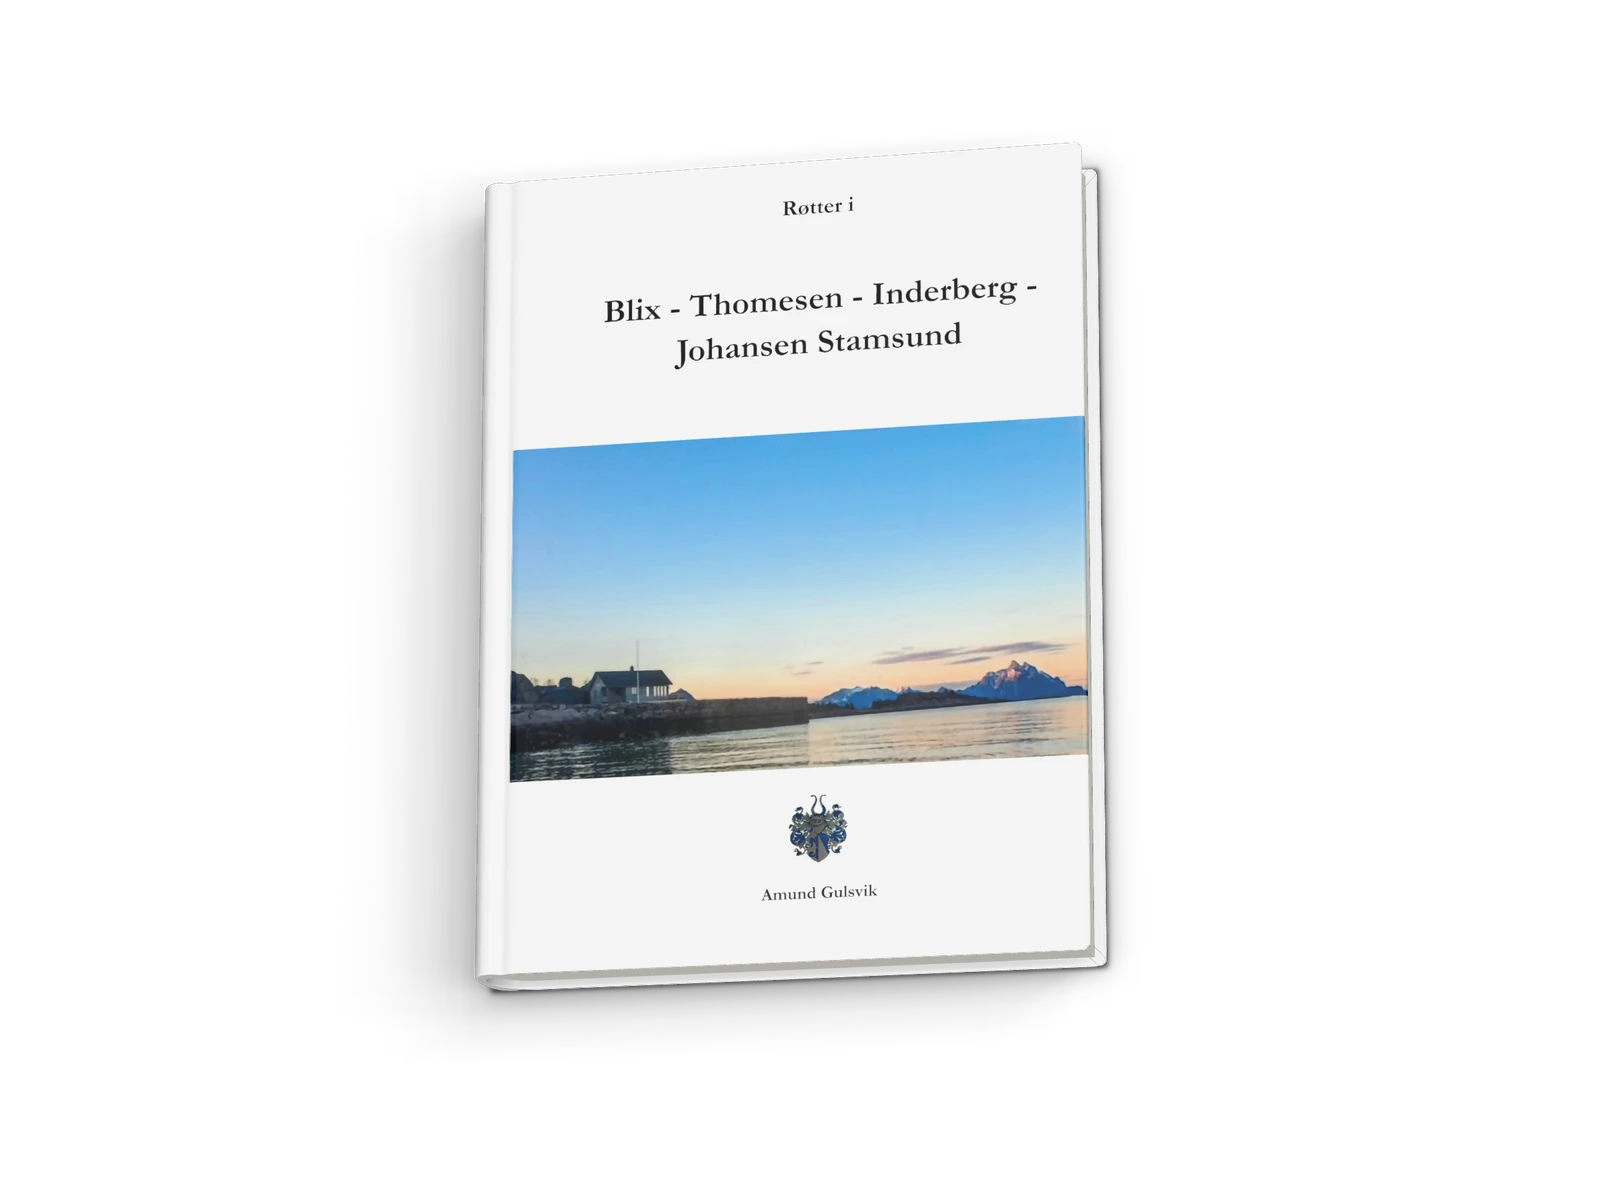
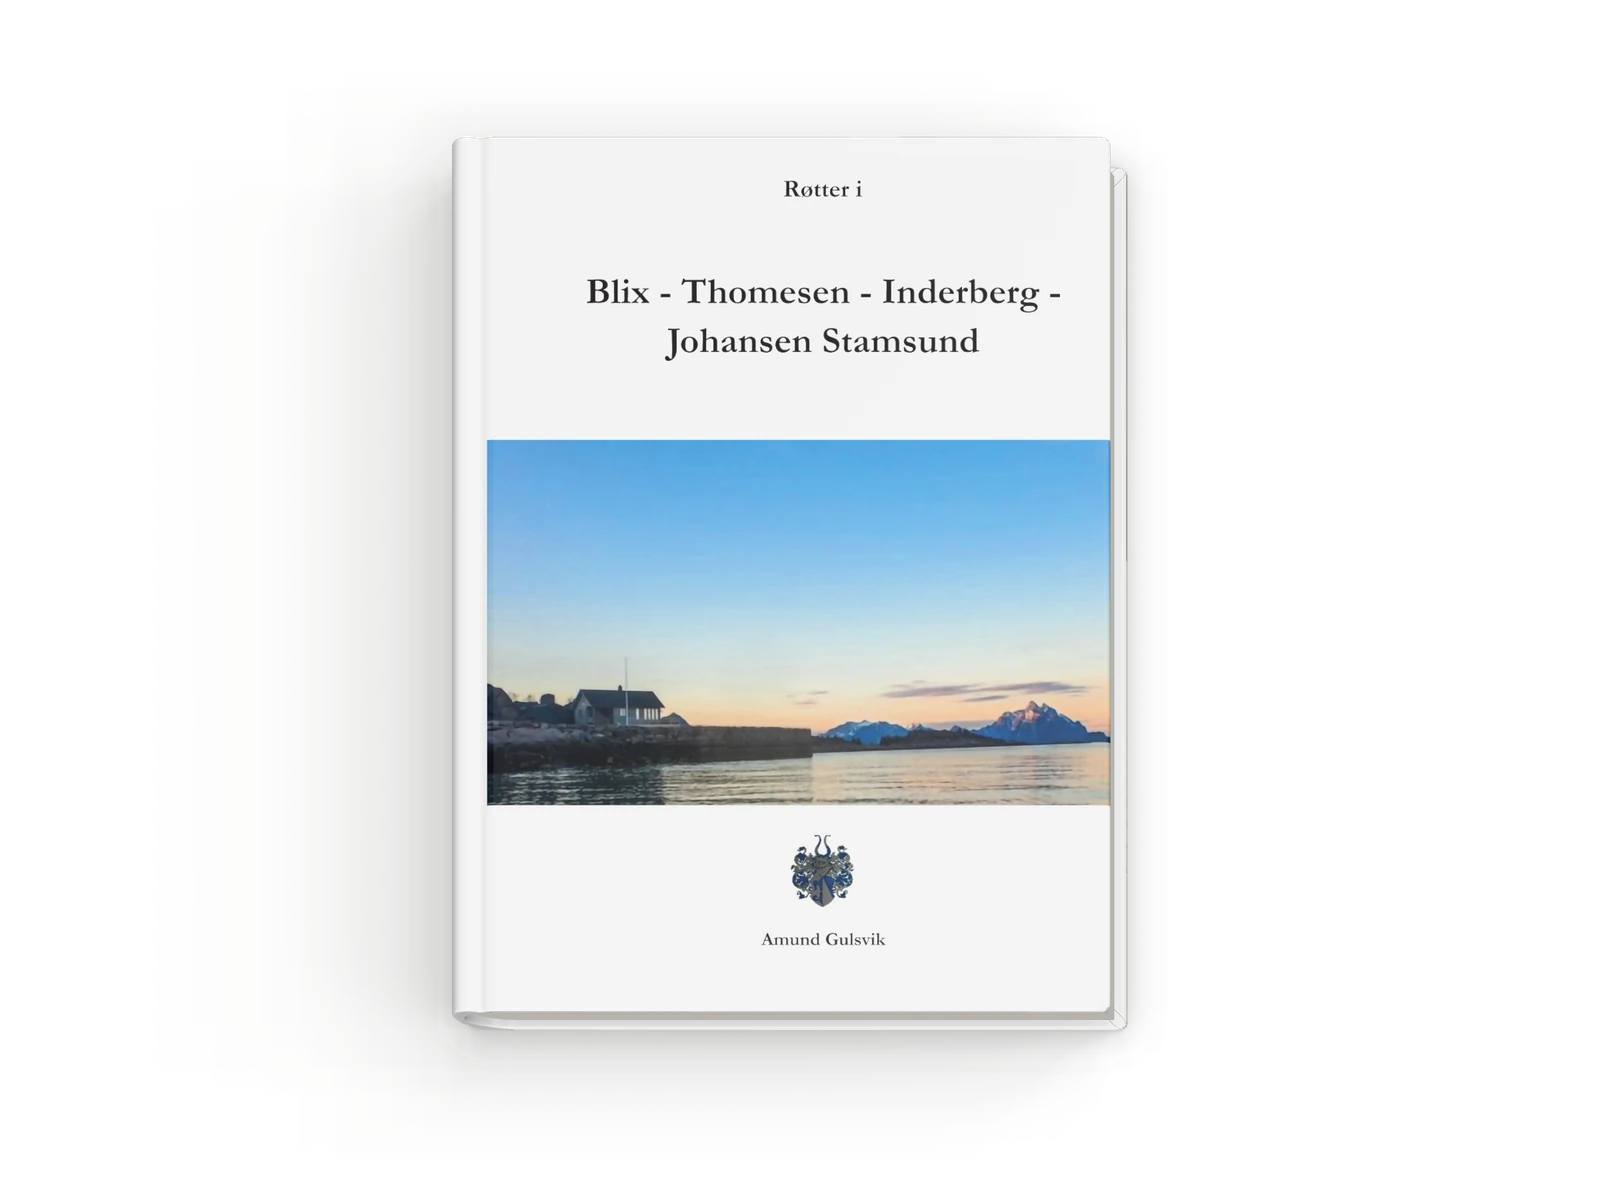
Book render: straight view, dark-grey soft shadows, no edge line
Camera looks straight down with a shifted frame, so the book is a true rectangle.
Shadows are dark grey and fade smoothly into the ground; the thin contact line is gone.

Changed region(s): [[0.25, 0.1233, 0.7188, 0.8942], [0.4688, 0.1542, 0.5312, 0.185]]

diff --git a/tools/book-render/render.html b/tools/book-render/render.html
@@ -180,7 +180,7 @@ book.position.y = ZOB + 0.005;   // resting on the table
 scene.add(book);
 
 // floor: shadow only, so the PNG sits on any pale ground
-const floor = new THREE.Mesh(new THREE.PlaneGeometry(4000, 4000), new THREE.ShadowMaterial({ opacity: num('so', 0.42) }));
+const floor = new THREE.Mesh(new THREE.PlaneGeometry(4000, 4000), new THREE.ShadowMaterial({ color: new THREE.Color(P.get('sc') || '#4a4a46'), opacity: num('so', 0.42) }));
 floor.rotation.x = -Math.PI / 2; floor.receiveShadow = true; scene.add(floor);
 
 // Soft light like a large softbox on the right plus open sky: each pass moves the light to another point
@@ -196,14 +196,14 @@ scene.add(new THREE.HemisphereLight(0xffffff, 0xe9e9e6, num('bounce', 0.35)));
 {
   const PX = 4, W0 = 300, H0 = 360, cc = document.createElement('canvas'); cc.width = W0 * PX; cc.height = H0 * PX;
   const cg = cc.getContext('2d'); const x0 = -120.7, x1 = XF, z0 = -H / 2, z1 = H / 2, ox = -7.4;
-  const rect = (inset, blur, a) => { cg.filter = `blur(${blur * PX}px)`; cg.fillStyle = `rgba(0,0,0,${a})`;
+  const rect = (inset, blur, a) => { cg.filter = `blur(${blur * PX}px)`; cg.fillStyle = `rgba(74,74,70,${a})`;
     cg.fillRect((x0 + inset - ox + W0 / 2) * PX, (z0 + inset + H0 / 2) * PX, (x1 - x0 - 2 * inset) * PX, (z1 - z0 - 2 * inset) * PX); };
-  rect(-0.3, 1.0, num('c1', 0.7)); rect(0, 4.5, num('c2', 0.28));
+  rect(0, 6, num('c2', 0.3));   // soft only: no dark line along the edge
   const m = new THREE.Mesh(new THREE.PlaneGeometry(W0, H0), new THREE.MeshBasicMaterial({ map: new THREE.CanvasTexture(cc), transparent: true, depthWrite: false, toneMapped: false }));
   m.rotation.x = -Math.PI / 2; m.position.set(ox, 0.02, 0); scene.add(m);
 }
 const SOFTBOX = new THREE.Vector3(num('kx', 600), num('ky', 900), num('kz', -60)).normalize();
-const PASSES = num('passes', 128), SKY = num('sky', 0.35), SPREAD = num('spread', 0.55);
+const PASSES = num('passes', 128), SKY = num('sky', 0.35), SPREAD = num('spread', 0.85);
 function lightDir(i) {
   const a = (i + 0.5) / PASSES, t = i * 2.39996;                    // golden-angle spiral, even coverage
   if (i % Math.round(1 / SKY) === 0) {                               // sky: anywhere above, from 35 deg up
@@ -216,7 +216,14 @@ function lightDir(i) {
 }
 
 const camera = new THREE.PerspectiveCamera(num('fov', 11), OUT_W / OUT_H, 10, 5000);
-camera.up.set(0, 0, -1); camera.position.set(CAM_X, CAM_Y, CAM_Z); camera.lookAt(-6, 0, 8);
+// looking straight down, so the book stays a true rectangle; the frame is shifted (like a shift lens)
+// to bring the book to the centre, and the offset position still shows the fore edge and the tail
+camera.up.set(0, 0, -1); camera.position.set(CAM_X, CAM_Y, CAM_Z); camera.lookAt(CAM_X, 0, CAM_Z);
+{
+  const tx = -7, tz = 0, th = Math.tan(THREE.MathUtils.degToRad(camera.fov / 2)), D = CAM_Y;
+  const nx = (tx - CAM_X) / (D * th * camera.aspect), ny = (CAM_Z - tz) / (D * th);
+  camera.setViewOffset(OUT_W, OUT_H, nx * OUT_W / 2, -ny * OUT_H / 2, OUT_W, OUT_H);
+}
 
 const passRT = new THREE.WebGLRenderTarget(OUT_W, OUT_H, { type: THREE.HalfFloatType, samples: 4 });
 const accRT = new THREE.WebGLRenderTarget(OUT_W, OUT_H, { type: THREE.FloatType });
@@ -240,7 +247,8 @@ for (let i = 0; i < PASSES; i++) {
 // to the canvas, with tone mapping and sRGB
 const outMat = new THREE.MeshBasicMaterial({ map: accRT.texture, transparent: true });
 const outScene = new THREE.Scene(); outScene.add(new THREE.Mesh(quadGeo, outMat));
-outMat.onBeforeCompile = sh => { sh.vertexShader = sh.vertexShader.replace('#include <project_vertex>', 'gl_Position = vec4(position.xy, 0.0, 1.0);'); };
+outMat.onBeforeCompile = sh => { sh.vertexShader = sh.vertexShader.replace('#include <project_vertex>', 'gl_Position = vec4(position.xy, 0.0, 1.0);');
+  sh.fragmentShader = sh.fragmentShader.replace('#include <map_fragment>', '#include <map_fragment>\n diffuseColor.rgb /= max(diffuseColor.a, 0.0001);'); };   // passes are premultiplied
 renderer.setRenderTarget(null); renderer.clear(); renderer.render(outScene, quadCam);
 window.__done = true;
 </script>

diff --git a/book.md b/book.md
@@ -32,7 +32,7 @@ Built in CSS from her own cover file, no stock mockup: front, spine and back pan
 - **Reference:** her photos of the printed book (2026-09-26, Notion *For Portfolio* → "Book mockup: the real hardcover"): matte white case binding, rounded spine with a hinge groove, boards overhanging the page block, a sewn block that curves into the gutter.
 - **Light:** from the right on every mockup, so shadows fall to the left onto the ground.
 - **Project page:** one closed book, turned three-quarters to show the front and the spine, on a pale well; hinge groove on the front, rounded spine, shadow on the backdrop to the left; the back cover beside it.
-- **Work-list thumbnail (since 2026-09-28):** one hardcover lying face up, seen almost from above, thickness showing on the right (fore edge) and bottom (tail); references in Notion *For Portfolio* → "Book thumbnail: one book, lying face up" and "Book render: hinge shadow and corner turn-ins". Rendered offline in three.js ([`tools/book-render/render.html`](tools/book-render/render.html)), not CSS. The cover texture is the print file itself (`omslag_34_18.pdf` at 10 px/mm → `tools/book-render/cover-wrap.jpg`, InDesign frame hairlines removed), laid on the case by arc length at the print measures: front 307.4–517.4 mm, a 10 mm hinge, the 34 mm spine; past the fore edge and the head and tail the 18 mm turn-in continues, so the cover art wraps round the board edge instead of stopping at it. Case: 2.8 mm boards with rounded edges and corners, 3 mm squares, a wide soft hinge groove, a rounded spine; fore corners rounded in plan (2.6 mm) and a little thicker where the turn-ins overlap, with a diagonal fold across the board edge and a mitre inside; a slightly concave page block with fine page lines; matte laminate grain. The book rests on the table (no gap). Light: a large softbox on the right plus open sky, 128 passes with the light moved across that area and averaged, so the shadow falls left and fades out smoothly; a thin contact shadow where the book meets the table; light bounced from the pale table onto the edges that face down (references in Notion → "Book render: thick corner and natural soft shadows"). Output `assets/work/book/book-mockup.webp`, 1600 × 1200, transparent, rendered at 2400 × 1800 and downscaled (3200 × 2400 with 128 passes runs out of GPU memory in the headless browser). To re-render: `npm install` in the tool folder, serve the repo root, open `/tools/book-render/render.html?w=2400&h=1800`, save the canvas (`decode.py`, `crops.py` help check details).
+- **Work-list thumbnail (since 2026-09-28):** one hardcover lying face up, seen almost from above, thickness showing on the right (fore edge) and bottom (tail); references in Notion *For Portfolio* → "Book thumbnail: one book, lying face up" and "Book render: hinge shadow and corner turn-ins". Rendered offline in three.js ([`tools/book-render/render.html`](tools/book-render/render.html)), not CSS. The cover texture is the print file itself (`omslag_34_18.pdf` at 10 px/mm → `tools/book-render/cover-wrap.jpg`, InDesign frame hairlines removed), laid on the case by arc length at the print measures: front 307.4–517.4 mm, a 10 mm hinge, the 34 mm spine; past the fore edge and the head and tail the 18 mm turn-in continues, so the cover art wraps round the board edge instead of stopping at it. Case: 2.8 mm boards with rounded edges and corners, 3 mm squares, a wide soft hinge groove, a rounded spine; fore corners rounded in plan (2.6 mm) and a little thicker where the turn-ins overlap, with a diagonal fold across the board edge and a mitre inside; a slightly concave page block with fine page lines; matte laminate grain. The book rests on the table (no gap). The camera looks straight down, so the book stays a true rectangle; the frame is shifted like a shift lens, and the offset camera position still shows the fore edge and the tail. Light: a large softbox on the right plus open sky, 128 passes with the light moved across that area and averaged, so the shadow falls left and fades out smoothly into the ground; shadows are dark grey (#4a4a46), not black, with only a soft contact shade and no dark line along the edges; light bounced from the pale table onto the edges that face down (references in Notion → "Book render: thick corner and natural soft shadows"). Output `assets/work/book/book-mockup.webp`, 1600 × 1200, transparent, rendered at 2400 × 1800 and downscaled (3200 × 2400 with 128 passes runs out of GPU memory in the headless browser). To re-render: `npm install` in the tool folder, serve the repo root, open `/tools/book-render/render.html?w=2400&h=1800`, save the canvas (`decode.py`, `crops.py` help check details).
 - **Spreads:** each spread sits on the white cover board, which shows around the pages as the square. Page edges stack at the outer sides, thicker on the side that holds more pages (left share = first page ÷ 432). The pages curve down into a sewn gutter: the top and bottom edges dip toward the spine, the crease is dark, and the shadow is wider on the right page, which faces away from the light.
 
 ## Spreads (her selection)
